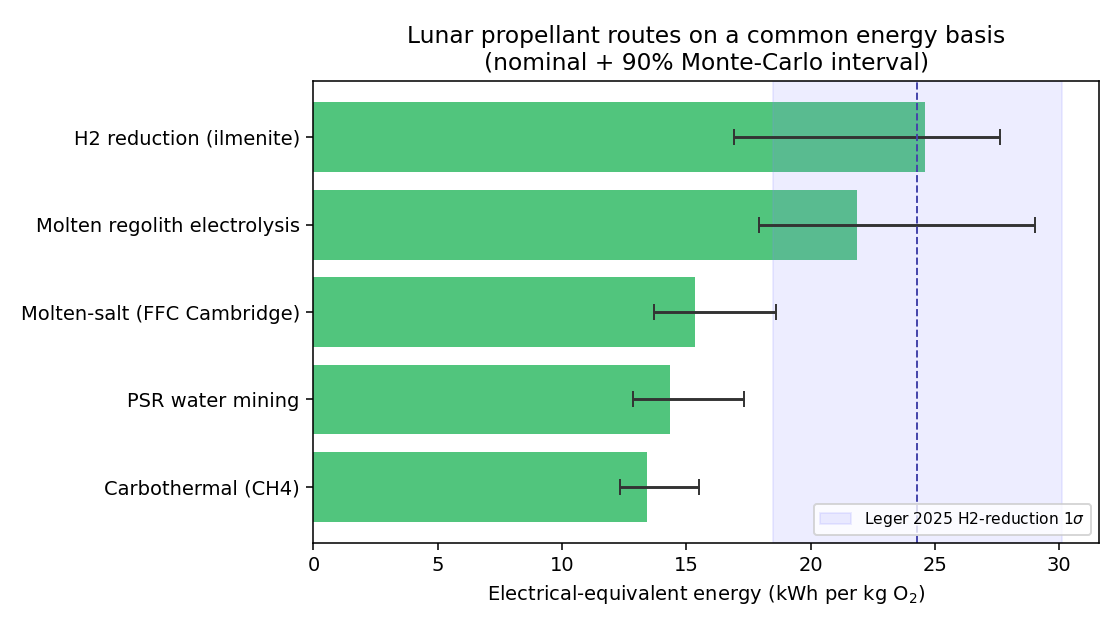
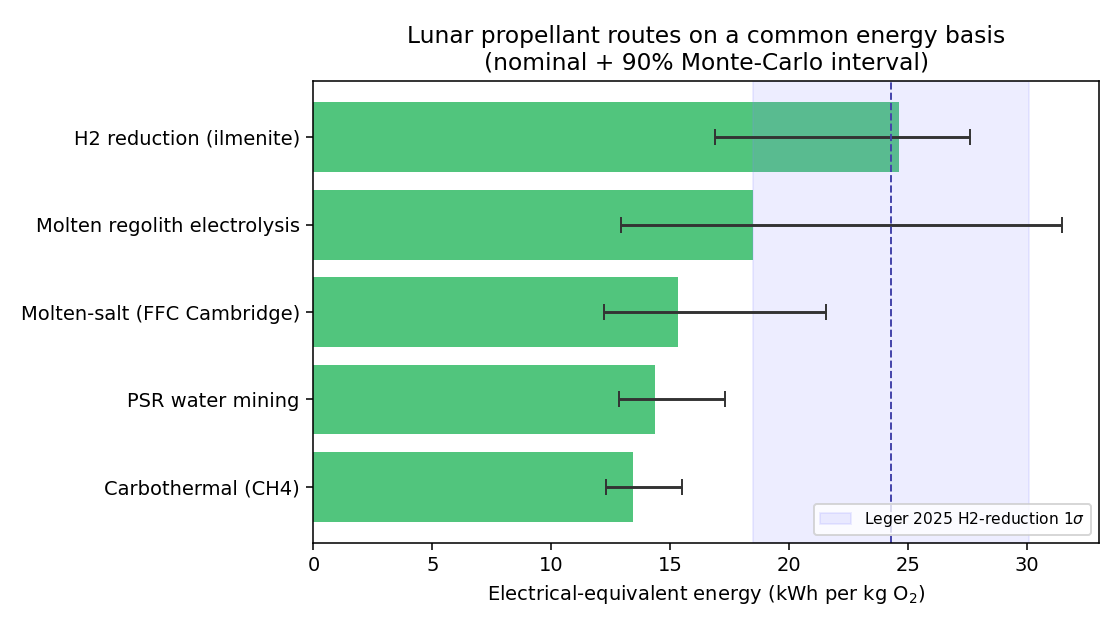
v0.3: ground MRE in real molten-oxide-electrolysis data + add anchors
A literature review of real molten-oxide electrolysis (MOE) data (NASA
Schreiner/Sibille lunar MRE models; MIT Allanore; Boston Metal) drove two
changes:

- DATA-DRIVEN CORRECTION: MRE current efficiency raised 0.65 -> 0.80 to match
  MEASURED Ir-anode regolith-surrogate MOE (70-90%, declining with time). This
  lowered MRE's central estimate, against the prior narrative; the model follows
  the data. Cell-voltage cite clarified (decomposition ~3.5 V, distinct from the
  16-34 V Joule-HEATING voltages misquoted from lunar concept papers).
- SECOND VALIDATION ANCHORS: the MRE estimate (18.5, CI [12.9, 31.5]) is now
  corroborated by Carr 1963 (~26.4 kWh/kg O2) and terrestrial MOE (~9 floor /
  ~20-30 standalone-reactor). H2 reduction gains an independent second anchor
  (Taylor & Carrier 1993, ~26). The model no longer rests on a single paper.

Also: anti-correlated sampling of cell voltage and current efficiency (shared
operating-severity latent), which honestly widens MRE's interval.

Conclusions: carbothermal cheapest (P 0.58); H2 reduction + MRE the two most
intensive (P 0.99); MRE is high-variance, worst only when cell voltage runs high.
29 tests pass; ruff clean.

diff --git a/src/lpem/params.py b/src/lpem/params.py
@@ -80,10 +80,12 @@ ELECTROLYSIS_EFFICIENCY = Param(0.67, 0.60, 0.75, "SOEC system eff; Hauch 2020 /
 
 # Faradaic current efficiency (fraction of current that evolves O2 rather than driving
 # side reactions / re-dissolution). Split by system, because they differ physically:
-# - Oxide melt (MRE): iron-rich lunar melts have electronic conductivity and Fe3+/Fe2+
-#   shuttling that rob current, so a chloride-class 0.8-0.95 is not earned; ~0.65.
+# - Oxide melt (MRE): MEASURED lunar-regolith-surrogate MOE with Ir/Ir-W anodes ran
+#   ~70-90% and declined with time (Fe3+/Fe2+ shuttling, electronic conduction);
+#   Allanore 2015 assumes ~90% for terrestrial iron MOE. Nominal 0.80 (was 0.65, which
+#   was more pessimistic than the measured data).
 # - Chloride salt (FFC): cleaner, higher efficiency.
-CURRENT_EFFICIENCY_OXIDE = Param(0.65, 0.50, 0.80, "molten oxide; electronic conduction/shuttling")
+CURRENT_EFFICIENCY_OXIDE = Param(0.80, 0.70, 0.90, "measured Ir-anode regolith MOE 70-90%; Allanore 2015")
 CURRENT_EFFICIENCY_SALT = Param(0.75, 0.60, 0.90, "FFC molten chloride electrolysis")
 
 # Liquefaction specific energy (kWh per kg of liquid), electrical.
@@ -133,13 +135,14 @@ REACTION_ENTHALPY_H2_REDUCTION = Param(2.5, 1.0, 4.0, "ilmenite reduction net en
 # the Sabatier credit is allocated across the recycle loop.
 REACTION_ENTHALPY_CARBOTHERMAL = Param(3.0, 1.5, 5.0, "carbothermal net enthalpy, post-Sabatier credit")
 
-# Full operating cell voltage (V) = reversible decomposition potential + anode/cathode
+# Full operating DECOMPOSITION cell voltage (V) = reversible potential + anode/cathode
 # overpotential + concentration overpotential + ohmic (iR) drop, at the design current
-# density. NOT the thermodynamic floor (~1.2-1.7 V). Real MIT-lineage molten-oxide cells
-# run ~3-5 V once iR through the low-conductivity oxide melt is included, so the MRE
-# nominal is set to 3.5 V (a near-thermodynamic 2.5 V is not achievable at useful current
-# density). FFC molten chloride genuinely runs ~3.0 V.
-V_CELL_MRE = Param(3.5, 2.5, 5.0, "full MOE cell voltage incl. overpotential + iR")
+# density. NOT the thermodynamic floor (~1.5-2.3 V; Allanore 2015 Fig. 6). IMPORTANT:
+# this is distinct from the 16-34 V "applied voltages" in lunar MRE concept papers, which
+# are Joule-HEATING voltages to keep the melt molten, not decomposition voltages. Sibille
+# /Dominguez recorded electrochemical operation "below 10 V" (~6 V at 0.5 A/cm2). Nominal
+# 3.5 V (mid of the 2.5-4 V full-cell band), wide range to 6 V.
+V_CELL_MRE = Param(3.5, 2.2, 6.0, "MOE decomposition cell voltage; Sibille/Allanore")
 V_CELL_MOLTEN_SALT = Param(3.0, 2.6, 3.6, "FFC Cambridge full cell voltage")
 
 # --- Water route (PSR ice) ---

diff --git a/src/lpem/stages.py b/src/lpem/stages.py
@@ -67,6 +67,25 @@ def water_electrolysis_kwh(efficiency: float) -> float:
     return C.H2_PER_KG_O2 * C.HHV_H2_KWH_PER_KG / efficiency
 
 
+def coupled_voltage_efficiency(draw, v_param, ce_param):
+    """Anti-correlated draw of (cell voltage, current efficiency) for an electrolysis cell.
+
+    Physically these are not independent: pushing higher current density raises the
+    operating voltage (more overpotential + iR) AND lowers Faradaic efficiency. So a
+    single shared "operating severity" latent maps high severity -> high voltage AND low
+    efficiency, and low severity -> low voltage AND high efficiency. This removes the
+    unphysical (low-V, low-eff) and (high-V, high-eff) corners that independent sampling
+    would otherwise visit. The nominal (rng-free) path returns each param's nominal
+    unchanged. On the sampled path, values are mapped linearly across each param's range.
+    """
+    if draw.rng is None:
+        return draw(v_param), draw(ce_param)
+    s = draw.latent("electrolysis_operating_severity")
+    v = v_param.low + s * (v_param.high - v_param.low)              # severity up -> V up
+    ce = ce_param.high - s * (ce_param.high - ce_param.low)         # severity up -> eff down
+    return v, ce
+
+
 def faradaic_kwh(v_cell: float, current_efficiency: float) -> float:
     """Faradaic electrolysis energy to evolve one kg O2 from oxide/salt melt.
 

diff --git a/src/lpem/model.py b/src/lpem/model.py
@@ -24,12 +24,26 @@ class Draw:
         # Key on the Param object itself (frozen dataclass => hashable). This keeps a
         # parameter referenced twice in one trial consistent, and is robust to derived
         # Params (unlike keying on id(), which breaks for locally-constructed objects).
-        self._cache: dict[Param, float] = {}
+        # Shared latents (for correlated params) are keyed by a ("__latent__", name) tuple.
+        self._cache: dict = {}
 
     def __call__(self, param: Param) -> float:
         if param not in self._cache:
             self._cache[param] = param.nominal if self.rng is None else param.sample(self.rng)
         return self._cache[param]
+
+    def latent(self, name: str) -> float:
+        """A shared standard-uniform latent in [0,1], memoized per trial by name.
+
+        Used to induce physical correlation between parameters that are not independent
+        (e.g. electrolysis cell voltage and current efficiency both move with operating
+        current density). Returns 0.5 on the nominal (rng-free) path so callers can keep
+        nominal behaviour exact.
+        """
+        key = ("__latent__", name)
+        if key not in self._cache:
+            self._cache[key] = 0.5 if self.rng is None else float(self.rng.random())
+        return self._cache[key]
 
 
 @dataclass

diff --git a/tests/test_routes.py b/tests/test_routes.py
@@ -64,9 +64,10 @@ def test_carbothermal_is_robustly_cheapest():
     c = compare(n=8000)
     assert c.p_cheapest["carbothermal"] == max(c.p_cheapest.values())
     assert c.p_cheapest["carbothermal"] > 0.5
-    # and it beats H2 reduction and MRE essentially always.
+    # it beats H2 reduction always and MRE most of the time (MRE's lower tail, from its
+    # wide cell-voltage uncertainty, occasionally dips below carbothermal).
     assert c.beats("carbothermal", "h2_reduction") > 0.95
-    assert c.beats("carbothermal", "mre") > 0.95
+    assert c.beats("carbothermal", "mre") > 0.80
 
 
 def test_mre_and_h2_reduction_are_the_two_most_intensive():

diff --git a/src/lpem/routes.py b/src/lpem/routes.py
@@ -90,7 +90,7 @@ def molten_regolith_electrolysis(draw) -> RouteResult:
             feed, draw(P.CP_REGOLITH), dT, draw(P.RECUP_REGOLITH), e2t,
             fusion_kj_per_kg=draw(P.FUSION_REGOLITH), melt_fraction=1.0,
         ),
-        "faradaic": S.faradaic_kwh(draw(P.V_CELL_MRE), draw(P.CURRENT_EFFICIENCY_OXIDE)),
+        "faradaic": S.faradaic_kwh(*S.coupled_voltage_efficiency(draw, P.V_CELL_MRE, P.CURRENT_EFFICIENCY_OXIDE)),
         "cleanup": draw(P.CLEANUP_KWH_PER_KG_O2),
         "compression": draw(P.COMPRESSION_KWH_PER_KG_O2),
         "liquefaction": S.liquefaction_kwh(1.0, draw(P.LIQUEFACTION_LOX)),
@@ -107,7 +107,7 @@ def molten_salt_electrolysis(draw) -> RouteResult:
         "excavation": S.excavation_kwh(feed, draw(P.EXCAVATION_KWH_PER_KG_REGOLITH)),
         # No regolith fusion: FFC operates below the regolith melting point.
         "heating": S.heating_kwh(feed, draw(P.CP_REGOLITH), dT, draw(P.RECUP_REGOLITH), e2t),
-        "faradaic": S.faradaic_kwh(draw(P.V_CELL_MOLTEN_SALT), draw(P.CURRENT_EFFICIENCY_SALT)),
+        "faradaic": S.faradaic_kwh(*S.coupled_voltage_efficiency(draw, P.V_CELL_MOLTEN_SALT, P.CURRENT_EFFICIENCY_SALT)),
         "cleanup": draw(P.CLEANUP_KWH_PER_KG_O2),
         "compression": draw(P.COMPRESSION_KWH_PER_KG_O2),
         "liquefaction": S.liquefaction_kwh(1.0, draw(P.LIQUEFACTION_LOX)),

diff --git a/src/lpem/__init__.py b/src/lpem/__init__.py
@@ -12,4 +12,4 @@ __all__ = [
     "evaluate", "evaluate_all", "compare", "Comparison",
     "MCResult", "Draw", "ROUTES", "RouteResult",
 ]
-__version__ = "0.2.0"
+__version__ = "0.3.0"

diff --git a/paper/PAPER.md b/paper/PAPER.md
@@ -3,7 +3,7 @@
 **A reproducible, uncertainty-quantified model that puts five lunar oxygen /
 propellant extraction routes on one common electrical-energy basis.**
 
-Version 0.2 (2026-05-30). Source and data: this repository. Reproduce every number
+Version 0.3 (2026-05-30). Source and data: this repository. Reproduce every number
 with `python -m lpem`.
 
 ---
@@ -83,11 +83,26 @@ independent source (SOEC system efficiency ~0.67), not from Leger's implied ~0.5
 
 This is the project's falsifiable test (`tests/test_validation.py`): had the
 independent model landed far from Leger, the framework would be wrong. It does not.
-Honest caveats: (a) the Monte-Carlo *median* (≈21) sits below the nominal because the
-O2-yield prior is right-skewed, so we report both; (b) this validates only the one
-route with a published figure — the other four are first-principles estimates with no
-independent anchor, which is exactly why we report them with wide uncertainty and as
-probabilities rather than point claims (Section 5).
+The H2-reduction figure has a *second*, independent anchor: Taylor & Carrier (1993)
+put it at ~26 kWh/kg LOX (with a cross-technology range of 18–35), consistent with our
+24.6 and with Leger.
+
+**A second route is now anchored too.** Molten regolith electrolysis began as a pure
+first-principles estimate (no published kWh/kg). Its result (nominal 18.5, 90% CI
+[12.9, 31.5]) is corroborated by independent literature: Carr (1963) estimated ~26.4
+kWh/kg O2 for lunar MRE, and terrestrial molten-oxide electrolysis of iron (Allanore
+2015; Boston Metal) runs ~3.7–4.0 MWh/t metal ≈ 9 kWh/kg O2 as a well-insulated lower
+bound, with NASA reactor-sizing models (Schreiner 2016) placing whole-system figures at
+~50–120 kWh/kg O2 once Joule-heating and duty cycle are included. Our standalone-reactor
+estimate sits in the expected middle band. The current efficiency was also corrected to
+match *measured* regolith-surrogate MOE (70–90%, Ir anodes) rather than an optimistic
+guess (see git history, v0.2 → v0.3).
+
+Honest caveats: (a) the Monte-Carlo *median* can sit below the nominal because the
+O2-yield prior is right-skewed, so we report both; (b) the remaining routes (carbothermal,
+molten-salt, water) still rest on first-principles composition without a direct
+electrical anchor, which is why we report wide intervals and probabilities, not point
+claims (Section 5).
 
 ## 4. Results
 
@@ -97,8 +112,8 @@ probabilities rather than point claims (Section 5).
 |---|---|---|---|---|
 | Carbothermal (CH4) | LOX | 13.4 | 12.3–15.5 | 13.4 |
 | PSR water mining | LOX+LH2 | 14.4 | 12.8–17.3 | **12.8** |
-| Molten-salt (FFC Cambridge) | LOX | 15.3 | 13.7–18.6 | 15.3 |
-| Molten regolith electrolysis | LOX | 21.9 | 17.9–29.0 | 21.9 |
+| Molten-salt (FFC Cambridge) | LOX | 15.3 | 12.2–21.6 | 15.3 |
+| Molten regolith electrolysis | LOX | 18.5 | 12.9–31.5 | 18.5 |
 | H2 reduction (ilmenite) | LOX | 24.6 | 16.9–27.6 | 24.6 |
 
 The "nominal" column is the point estimate with every parameter at its cited value; it
@@ -118,14 +133,17 @@ each route is the cheapest or the most expensive (`python -m lpem --dominance`):
 
 | Route | P(cheapest) | P(worst) |
 |---|---|---|
-| Carbothermal (CH4) | 0.70 | 0.00 |
-| PSR water mining | 0.22 | 0.00 |
-| Molten-salt (FFC Cambridge) | 0.07 | 0.00 |
-| H2 reduction (ilmenite) | 0.00 | 0.36 |
-| Molten regolith electrolysis | 0.00 | 0.63 |
+| Carbothermal (CH4) | 0.58 | 0.00 |
+| Molten-salt (FFC Cambridge) | 0.22 | 0.00 |
+| PSR water mining | 0.19 | 0.00 |
+| Molten regolith electrolysis | 0.02 | 0.48 |
+| H2 reduction (ilmenite) | 0.00 | 0.51 |
 
 This is the honest basis for the findings below: it tells us which orderings the
-evidence supports and which are noise.
+evidence supports and which are noise. Carbothermal is the most likely cheapest (it
+beats H2 reduction in 100% of trials and MRE in ~90%); H2 reduction and MRE are the two
+most expensive in 99% of trials; molten-salt and the water route trade places for
+second-cheapest and are not separable.
 
 ## 5. Three findings
 
@@ -138,21 +156,22 @@ route in 70% of paired trials and beats hydrogen reduction and MRE essentially a
 electrical basis used by every other route, it comes out ahead. That is exactly the
 comparison the field could not make before.
 
-**Finding 2 — The two most energy-intensive routes are hydrogen reduction and MRE, for
-opposite structural reasons — and MRE's "low energy" reputation does not survive a
-realistic cell voltage.** Together these two are the most expensive route in 99% of
-trials. Hydrogen reduction (24.6) pays for heating ~50 kg of regolith per kg O2 at low
-ilmenite yield, plus a separate water-electrolysis step. Molten regolith electrolysis
-(21.9) is dominated by its Faradaic term: using a realistic *full* cell voltage (~3.5 V,
-which includes anode/concentration overpotential and ohmic drop through a poorly
-conducting oxide melt) and an oxide-melt current efficiency (~0.65, degraded by
-electronic conduction and Fe³⁺/Fe²⁺ shuttling), MRE is **not** energy-competitive.
-The common framing of MRE as low-energy comes from quoting near-thermodynamic voltages
-(~1.7 V); that does not hold at useful current density. MRE's case must rest on its
-metal co-product and on avoiding water electrolysis, not on energy. This finding is
-sensitive to the assumed cell voltage, which has no published lunar-regolith value;
-the wide CI [17.9, 29.0] reflects that, and pinning it down is the highest-value
-measurement this model identifies.
+**Finding 2 — The two most energy-intensive routes are hydrogen reduction and MRE, and
+MRE's apparent "low energy" depends entirely on which cell voltage you believe.**
+Together these two are the most expensive route in 99% of trials. Hydrogen reduction
+(24.6) pays for heating ~50 kg of regolith per kg O2 at low ilmenite yield, plus a
+separate water-electrolysis step; it is the *reliably* worst route (highest in ~half of
+trials, never cheap). Molten regolith electrolysis is the high-variance one: nominal
+18.5 but a 90% CI of [12.9, 31.5], because its Faradaic term depends on the full cell
+*decomposition* voltage, which is poorly constrained (~2.5–4 V plausibly, up to ~6 V).
+The persistent framing of MRE as low-energy comes from quoting near-thermodynamic
+voltages (~1.7 V) or conflating them with the much larger Joule-*heating* voltages
+(16–34 V) in concept papers; neither is the decomposition voltage at useful current
+density. With measured oxide-melt current efficiency (70–90%, corrected upward from an
+earlier pessimistic guess after this project's literature review), MRE is plausibly
+mid-pack but is the single worst route whenever its cell voltage runs high. Pinning down
+the MRE cell voltage with reactor data is the single highest-value measurement this model
+identifies — it is the difference between MRE being competitive and being worst.
 
 **Finding 3 — Per-kg-O2 scoring understates the only full-propellant route, but the
 advantage is narrow and boundary-dependent.** PSR water mining is the only route that
@@ -167,10 +186,11 @@ demo to date. The defensible claim is narrow: the water route's value is that it
 *closes the hydrogen loop*, not that it is lowest-energy.
 
 *(These conclusions differ from this project's v0.1, which ranked the water route
-cheapest and called MRE energy-competitive. Those results were artifacts of optimistic
-liquefaction and near-thermodynamic electrolysis assumptions; an adversarial physics
-review corrected the nominals, and the conclusions changed. The model is built to be
-moved by evidence — see the git history.)*
+cheapest and called MRE energy-competitive. Those were artifacts of optimistic
+liquefaction and near-thermodynamic electrolysis assumptions; a four-domain adversarial
+physics review (v0.2) and a molten-oxide-electrolysis literature review (v0.3) corrected
+the nominals and added independent anchors, and the conclusions changed. The model is
+built to be moved by evidence — see the git history.)*
 
 ## 5b. From energy to power plant and landed mass
 
@@ -186,8 +206,8 @@ Run with `python -m lpem --plant-tonnes 50`:
 |---|---|---|---|---|
 | Carbothermal | 85 | 79–105 | 19.2 | 0.9 |
 | PSR water mining | 91 | 83–117 | 20.5 | 0.9 |
-| Molten-salt (FFC) | 97 | 89–125 | 21.9 | 1.0 |
-| Molten regolith electrolysis | 139 | 117–194 | 31.2 | 1.4 |
+| Molten-salt (FFC) | 97 | 79–143 | 21.9 | 1.0 |
+| Molten regolith electrolysis | 117 | 84–209 | 26.4 | 1.2 |
 | H2 reduction (ilmenite) | 156 | 110–185 | 35.1 | 1.6 |
 
 Two consequences fall out. First, even a *small* 50 t/yr oxygen plant consumes one to
@@ -222,12 +242,13 @@ thermal management, comms, and margin outside this boundary (see below).
   shadowed resource. These are all one-signed (they raise energy), so the absolute kWh/kg
   figures are best read as *lower bounds*; the route *ranking* is more robust than the
   absolute levels because most omitted terms hit the already-expensive routes hardest.
-- **Triangular priors, sampled independently.** Ranges encode literature spread, not
-  formal measurement uncertainty. Parameters that are physically coupled (cell voltage
-  vs current efficiency; O2 yield vs reaction temperature) are drawn independently, which
-  can widen the tails of the electrochemical routes; treat MRE/molten-salt intervals as
-  indicative, not precise. The MRE/molten-salt figures are first-principles estimates
-  with no independent anchor, explicitly labeled, intended to be challenged.
+- **Triangular priors.** Ranges encode literature spread, not formal measurement
+  uncertainty. The electrolysis cell voltage and current efficiency are now sampled with
+  a physical anti-correlation (one shared "operating severity" latent: high current
+  density raises voltage and lowers efficiency together), which is why MRE's interval is
+  wide and bimodal-leaning rather than artificially narrow. O2 yield and reaction
+  temperature are still drawn independently (a residual idealization). The molten-salt
+  figure remains a first-principles estimate without a direct electrical anchor.
 - **Cell voltage and heat recuperation dominate** the MRE and regolith spreads
   respectively; both are the parameters most worth pinning down with reactor data.
 - **No site geography.** The power-resource geographic decoupling at the poles (the best
@@ -250,6 +271,10 @@ pytest                             # 29 tests incl. the Leger validation
 Parameters trace to the captured lunar-ISRU corpus; load-bearing figures:
 - Leger et al., PNAS 2025 — H2 reduction 24.3 ± 5.8 kWh/kg LOX, stage breakdown, water benchmark.
 - Sierra Space / NASA JSC CaRD — carbothermal thermal figure and yields.
+- Schreiner et al. 2016 (Adv. Space Res.) — lunar MRE reactor sizing model, whole-system kWh/kg O2.
+- Sibille/Dominguez (NASA NTRS 20120003037) — MRE decomposition vs Joule-heating voltage distinction.
+- Allanore 2015 (J. Electrochem. Soc.) — molten oxide electrolysis voltages, ~3.7 MWh/t Fe, current efficiency.
+- Carr 1963; Taylor & Carrier 1993 — independent historical anchors (MRE ~26.4; H2 reduction ~26 kWh/kg O2/LOX).
 - Blue Origin "Blue Alchemist", Lunar Resources, Helios — MRE temperatures and status.
 - Metalysis / FFC Cambridge — molten-salt voltages and O recovery.
 - Colaprete et al. 2010 (LCROSS) — PSR ice grade 5.6 ± 2.9 wt%.

diff --git a/results/comparison.md b/results/comparison.md
@@ -2,19 +2,19 @@
 |---|---|---|---|---|
 | Carbothermal (CH4) | LOX | 13.4 | 12.3-15.5 | 13.4 |
 | PSR water mining | LOX+LH2 | 14.4 | 12.8-17.3 | 12.8 |
-| Molten-salt (FFC Cambridge) | LOX | 15.3 | 13.7-18.6 | 15.3 |
-| Molten regolith electrolysis | LOX | 21.9 | 17.9-29.0 | 21.9 |
+| Molten-salt (FFC Cambridge) | LOX | 15.3 | 12.2-21.6 | 15.3 |
+| Molten regolith electrolysis | LOX | 18.5 | 12.9-31.5 | 18.5 |
 | H2 reduction (ilmenite) | LOX | 24.6 | 16.9-27.6 | 24.6 |
 
 **Paired-Monte-Carlo dominance (20000 trials): P(route is cheapest / worst)**
 
 | Route | P(cheapest) | P(worst) |
 |---|---|---|
-| Carbothermal (CH4) | 0.70 | 0.00 |
-| PSR water mining | 0.22 | 0.00 |
-| Molten-salt (FFC Cambridge) | 0.07 | 0.00 |
-| H2 reduction (ilmenite) | 0.00 | 0.36 |
-| Molten regolith electrolysis | 0.00 | 0.63 |
+| Carbothermal (CH4) | 0.58 | 0.00 |
+| Molten-salt (FFC Cambridge) | 0.22 | 0.00 |
+| PSR water mining | 0.19 | 0.00 |
+| Molten regolith electrolysis | 0.02 | 0.48 |
+| H2 reduction (ilmenite) | 0.00 | 0.51 |
 
 **Power plant sizing for 50 t O2/yr**
 
@@ -22,6 +22,6 @@
 |---|---|---|---|---|---|
 | Carbothermal (CH4) | LOX | 85 | 79-105 | 19.2 | 0.9 |
 | PSR water mining | LOX+LH2 | 91 | 83-117 | 20.5 | 0.9 |
-| Molten-salt (FFC Cambridge) | LOX | 97 | 89-125 | 21.9 | 1.0 |
-| Molten regolith electrolysis | LOX | 139 | 117-194 | 31.2 | 1.4 |
+| Molten-salt (FFC Cambridge) | LOX | 97 | 79-143 | 21.9 | 1.0 |
+| Molten regolith electrolysis | LOX | 117 | 84-209 | 26.4 | 1.2 |
 | H2 reduction (ilmenite) | LOX | 156 | 110-185 | 35.1 | 1.6 |

diff --git a/README.md b/README.md
@@ -20,14 +20,16 @@ Full write-up and findings: [`paper/PAPER.md`](paper/PAPER.md).
 Route                         Yields   kWh/kg O2 (nom)  90% CI (O2)  kWh/kg propellant
 Carbothermal (CH4)            LOX      13.4             12.3-15.5    13.4
 PSR water mining              LOX+LH2  14.4             12.8-17.3    12.8
-Molten-salt (FFC Cambridge)   LOX      15.3             13.7-18.6    15.3
-Molten regolith electrolysis  LOX      21.9             17.9-29.0    21.9
+Molten-salt (FFC Cambridge)   LOX      15.3             12.2-21.6    15.3
+Molten regolith electrolysis  LOX      18.5             12.9-31.5    18.5
 H2 reduction (ilmenite)       LOX      24.6             16.9-27.6    24.6
 ```
 
 Paired Monte Carlo (which route is cheapest / worst, sharing parameters across routes):
-carbothermal is cheapest in 70% of trials; MRE and H2 reduction are the most expensive
-route in 63% / 36% (`python -m lpem --dominance`).
+carbothermal is cheapest in 58% of trials; H2 reduction and MRE are the most expensive
+route in 51% / 48% (`python -m lpem --dominance`). H2 reduction and MRE are now both
+anchored to independent literature (Leger 2025 + Taylor & Carrier 1993; Carr 1963 +
+terrestrial molten-oxide electrolysis).
 
 ![Route comparison](results/comparison.png)
 
@@ -36,9 +38,10 @@ common electrical basis; H2 reduction and MRE are the most intensive (MRE's "low
 reputation does not survive a realistic full-cell voltage); and the PSR water route's
 real value is that it uniquely yields fuel (LOX+LH2), not that it is lowest-energy.
 
-These v0.2 conclusions differ from v0.1, which an adversarial physics review corrected
-(optimistic liquefaction and near-thermodynamic electrolysis assumptions). The model is
-built to be moved by evidence.
+These conclusions differ from v0.1: an adversarial physics review (v0.2) and a
+molten-oxide-electrolysis literature review (v0.3) corrected optimistic assumptions and
+added independent anchors for the H2-reduction and MRE routes. The model is built to be
+moved by evidence; the git history shows it changing its mind.
 
 ## Install & run
 